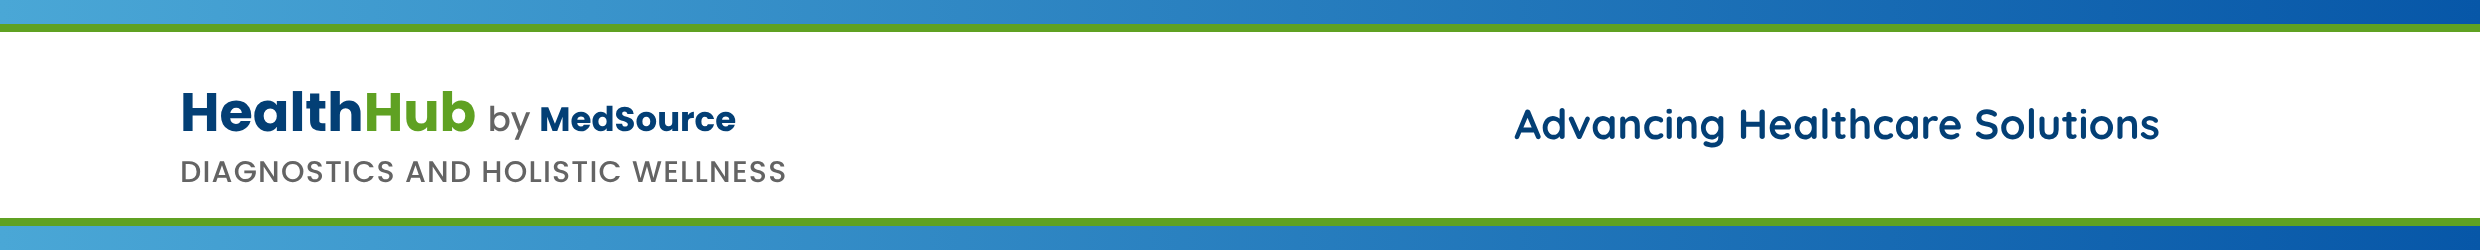
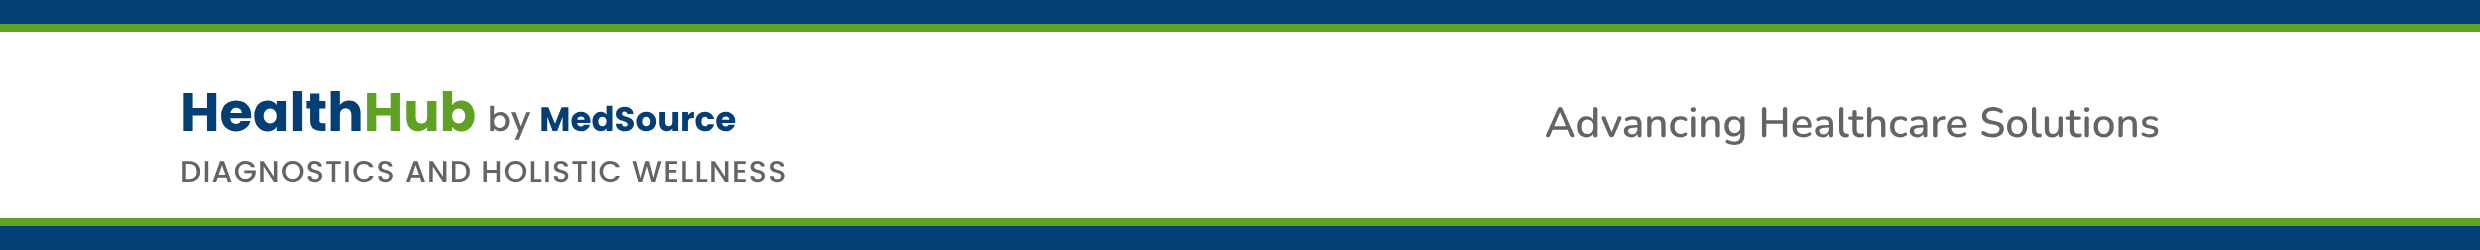
HealthHub letterhead: follow design system (flat navy and green, Nunito tagline)
Claude-Session: https://claude.ai/code/session_016dL7ufMN2VFfGBhqrXKWEq

Changed region(s): [[0.0, 0.896, 1.0, 1.0], [0.0, 0.0, 1.0, 0.112], [0.5899, 0.42, 0.8694, 0.588]]

diff --git a/healthhub/print/2026-10-healthhub-letterhead/source.html b/healthhub/print/2026-10-healthhub-letterhead/source.html
@@ -2,17 +2,16 @@
 @font-face{font-family:"Poppins";font-weight:700;src:url("assets/Poppins-Bold.ttf")}
 @font-face{font-family:"Poppins";font-weight:500;src:url("assets/Poppins-Medium.ttf")}
 @font-face{font-family:"Poppins";font-weight:400;src:url("assets/Poppins-Regular.ttf")}
-@font-face{font-family:"Quicksand";font-weight:500;src:url("../../brand/fonts/quicksand-latin-500-normal.woff2")}
-@font-face{font-family:"Quicksand";font-weight:600;src:url("../../brand/fonts/quicksand-latin-600-normal.woff2")}
-@font-face{font-family:"Quicksand";font-weight:700;src:url("../../brand/fonts/quicksand-latin-700-normal.woff2")}
-:root{--navy:#033f75;--green:#5fa122;--grey:#646464;--blue-d:#0757a8;--blue-l:#4aa7d6;--green-l:#a5db6b;--green-d:#4fa547}
+@font-face{font-family:"Nunito";font-weight:600;src:url("../../brand/fonts/Nunito-600.woff2")}
+@font-face{font-family:"Nunito";font-weight:700;src:url("../../brand/fonts/Nunito-700.woff2")}
+:root{--navy:#033f75;--green:#5fa122;--grey:#646464}
 *{box-sizing:border-box;margin:0;padding:0}
-body{background:#888;font-family:"Quicksand",sans-serif;display:flex;flex-direction:column;gap:40px;padding:40px;width:2560px}
+body{background:#888;font-family:"Nunito",sans-serif;display:flex;flex-direction:column;gap:40px;padding:40px;width:2560px}
 .piece{position:relative;width:2480px;background:#fff;overflow:hidden}
 .abs{position:absolute}
 #h1{height:500px}#h2{height:250px}#f{height:250px}
-.topbar{left:0;top:0;width:2480px;background:linear-gradient(90deg,var(--blue-l) 0%,var(--blue-d) 100%)}
-.botbar{left:0;width:2480px;background:linear-gradient(90deg,var(--blue-l) 0%,var(--blue-d) 100%)}
+.topbar{left:0;top:0;width:2480px;background:var(--navy)}
+.botbar{left:0;width:2480px;background:var(--navy)}
 .acc{position:absolute;left:0;width:2480px;background:var(--green)}
 .lock{position:absolute;display:flex;align-items:center;gap:34px}
 .lock img{display:block}
@@ -23,7 +22,7 @@ body{background:#888;font-family:"Quicksand",sans-serif;display:flex;flex-direct
 .name .by{font-weight:500;color:var(--grey)}
 .name .by b{font-weight:700;color:var(--navy)}
 .desc{font-weight:500;color:var(--grey);white-space:nowrap;line-height:1;text-transform:uppercase}
-.tag{font-family:"Quicksand",sans-serif;font-weight:700;color:var(--navy);white-space:nowrap;text-align:right}
+.tag{font-family:"Nunito",sans-serif;font-weight:600;color:var(--grey);white-space:nowrap;text-align:right}
 </style></head><body>
 
 <!-- FIRST PAGE HEADER 2480x500. spec: LETTERHEAD-SPEC.md. Zone A (177-1240, 360-430) and Zone B (1300-2160, 215-430) stay blank. Logo ends above y 350. -->

diff --git a/healthhub/print/2026-10-healthhub-letterhead/print.md b/healthhub/print/2026-10-healthhub-letterhead/print.md
@@ -6,9 +6,9 @@
 | Type | Print, letterhead template (header and footer images) |
 | Location | Brand level, HealthHub by MedSource |
 | Status | Draft |
-| Design | MedHealth look carried over, name changed to HealthHub by MedSource. Source: [source.html](source.html) |
+| Design | [MedSource HealthHub Design System](https://claude.ai/artifact/9rBBbMZtz8yim7BnH17PUR) (flat navy #033F75 and green #5FA122, Nunito). MedHealth logo carried over with the name changed to HealthHub by MedSource. Source: [source.html](source.html) |
 
-Same look as MedHealth: the cross and heartbeat mark is untouched (cropped from the supplied logo), navy #033F75 and green #5FA122 wordmark, grey descriptor "Diagnostics and Holistic Wellness". Only the name changed: "MedHealth" became "HealthHub" with a smaller "by MedSource". Blue gradient bars (from the mark's blue) sit on the outer edges, each with a thin solid green accent line (the wordmark green) next to the white area, so every piece uses one colour scheme. Tagline "Advancing Healthcare Solutions" top right, Quicksand. Wordmark and descriptor set in Poppins to match the supplied logo.
+Follows the HealthHub design system: flat colour only (gradients stay inside the logo), navy bars on the outer edges with a thin flat green accent line next to the white area, tagline "Advancing Healthcare Solutions" in Nunito SemiBold grey. The cross and heartbeat mark is untouched (cropped from the supplied MedHealth logo). Only the name changed: "MedHealth" became "HealthHub" with a smaller "by MedSource", in the logo's own Poppins lettering, with the descriptor kept the same width as the wordmark.
 
 Fitted to [LETTERHEAD-SPEC.md](../../../LETTERHEAD-SPEC.md). First page header keeps Zone A (branch tag) and Zone B (phone, email, address) blank because the system prints them. The logo ends at x 1184, y 340, nothing sits under the logo, and only the optional tagline sits at the top right.
 

diff --git a/healthhub/README.md b/healthhub/README.md
@@ -1,6 +1,6 @@
 # HealthHub by MedSource
 
-Healthcare brand of MedSource HealthHub (sister company of MedSource), formerly drafted as MedHealth. Mark: cross with heartbeat. Colours: navy #033F75, green #5FA122, grey #646464, gradient blue #4AA7D6 to #0757A8 and green #A5DB6B to #4FA547. Fonts: Poppins (wordmark), Quicksand (tagline). Tagline: Advancing Healthcare Solutions. Descriptor: Diagnostics and Holistic Wellness.
+Healthcare brand of MedSource HealthHub (sister company of MedSource). Design system: [MedSource HealthHub Design System](https://claude.ai/artifact/9rBBbMZtz8yim7BnH17PUR). Colours: navy #033F75, green #5FA122, grey #646464, flat only (gradients stay inside the logo). Fonts: Nunito (text, taglines), Quicksand (display); the supplied logo keeps its own Poppins lettering. Tagline: Advancing Healthcare Solutions.
 
 Letterhead format: [LETTERHEAD-SPEC.md](../LETTERHEAD-SPEC.md). No em dashes.
 
@@ -14,4 +14,4 @@ Letterhead format: [LETTERHEAD-SPEC.md](../LETTERHEAD-SPEC.md). No em dashes.
 
 - `brand/logos/healthhub-mark.png`: the cross and heartbeat mark, cropped unchanged from the MedHealth logo
 - `brand/logos/medhealth-source-*.png`: the supplied MedHealth logos
-- `brand/fonts/`: Quicksand
+- `brand/fonts/`: Quicksand and Nunito

diff --git a/README.md b/README.md
@@ -9,7 +9,7 @@ Every publication for EJ's brands in one place: social posts, signage and print,
 | MedSource (and MedSource World) | MedSource Medical Supplies | [MedSource Design System](https://claude.ai/artifact/LojEEUnecRaNcobaZvbXQ8) | [`medsource`](medsource/README.md) |
 | Emmanuelle Pharma & Medical Supplies | [facebook.com/emedsupplies](https://www.facebook.com/emedsupplies/) | [Emmanuelle Design System](https://claude.ai/artifact/BZ3eubu2p5WSvJiqvA3wCV) | [`emmanuelle-pharma`](emmanuelle-pharma/README.md) |
 | MedPlace Medical Supplies & Pharma | [facebook.com/profile.php?id=100094972893534](https://www.facebook.com/profile.php?id=100094972893534) | [MedPlace Design System](https://claude.ai/artifact/Bdmtw2JqfXUNjD4H9957jd) | [`medplace`](medplace/README.md) |
-| HealthHub by MedSource | not yet | not yet | [`healthhub`](healthhub/README.md) |
+| HealthHub by MedSource | not yet | [MedSource HealthHub Design System](https://claude.ai/artifact/9rBBbMZtz8yim7BnH17PUR) | [`healthhub`](healthhub/README.md) |
 
 ## Folder guide
 
